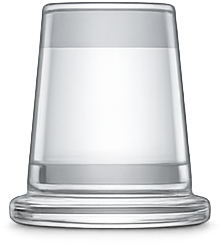
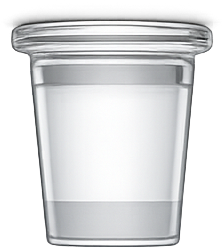
add an plug!!!

diff --git a/EzLaboratory/BottleStopperItem.cpp b/EzLaboratory/BottleStopperItem.cpp
@@ -1,0 +1,137 @@
+#include "BottleStopperItem.h"
+#include "NarrowBottleItem.h"
+
+#include <QGraphicsScene>
+#include <QGraphicsSceneMouseEvent>
+#include <QList>
+#include <QtMath>
+
+namespace
+{
+    // 这里先写成一个明确常量，后面你只要把路径替换成你 generic 里真实的瓶塞图片即可
+    constexpr const char* kStopperImagePath =
+        ":/EzLaboratory/resources/image/glassware/generic/narrow-mouth_bottle/plug.png";
+}
+
+BottleStopperItem::BottleStopperItem(QGraphicsItem* parent)
+    : LabItem(
+        "narrow_bottle_stopper",
+        "NarrowBottleStopper",
+        kStopperImagePath,
+        QSizeF(42, 56),
+        parent)
+{
+    setZValue(10.0);
+    setTransformOriginPoint(boundingRect().center());
+}
+
+void BottleStopperItem::attachToBottle(NarrowBottleItem* bottle)
+{
+    if (!bottle) {
+        return;
+    }
+
+    if (m_attachedBottle == bottle && parentItem() == bottle) {
+        return;
+    }
+
+    if (m_attachedBottle) {
+        m_attachedBottle->clearStopperReference(this);
+    }
+
+    m_attachedBottle = bottle;
+    m_attachedBottle->setStopperReference(this);
+
+    setParentItem(bottle);
+    setRotation(0.0);
+    setFlag(QGraphicsItem::ItemIsMovable, false);
+
+    const QPointF localPos = bottle->stopperLocalTopLeft(this);
+    setPos(localPos);
+}
+
+void BottleStopperItem::detachFromBottle()
+{
+    if (!scene()) {
+        return;
+    }
+
+    QPointF scenePosBefore = mapToScene(QPointF(0, 0));
+
+    if (m_attachedBottle) {
+        m_attachedBottle->clearStopperReference(this);
+        m_attachedBottle = nullptr;
+    }
+
+    setParentItem(nullptr);
+    setPos(scenePosBefore);
+    setRotation(180.0);
+    setFlag(QGraphicsItem::ItemIsMovable, true);
+    setZValue(100.0);
+}
+
+bool BottleStopperItem::isAttached() const
+{
+    return m_attachedBottle != nullptr;
+}
+
+NarrowBottleItem* BottleStopperItem::attachedBottle() const
+{
+    return m_attachedBottle;
+}
+
+QPointF BottleStopperItem::plugTipScenePos() const
+{
+    return mapToScene(QPointF(boundingRect().width() * 0.5, boundingRect().height()));
+}
+
+void BottleStopperItem::mousePressEvent(QGraphicsSceneMouseEvent* event)
+{
+    if (event->button() == Qt::LeftButton && isAttached()) {
+        detachFromBottle();
+    }
+
+    LabItem::mousePressEvent(event);
+}
+
+void BottleStopperItem::mouseReleaseEvent(QGraphicsSceneMouseEvent* event)
+{
+    LabItem::mouseReleaseEvent(event);
+
+    if (event->button() != Qt::LeftButton) {
+        return;
+    }
+
+    NarrowBottleItem* targetBottle = findBestSnapBottle();
+    if (targetBottle) {
+        attachToBottle(targetBottle);
+    }
+}
+
+NarrowBottleItem* BottleStopperItem::findBestSnapBottle() const
+{
+    if (!scene()) {
+        return nullptr;
+    }
+
+    const QPointF tipPos = plugTipScenePos();
+
+    NarrowBottleItem* bestBottle = nullptr;
+    qreal bestDistance = std::numeric_limits<qreal>::max();
+
+    const QList<QGraphicsItem*> allItems = scene()->items();
+    for (QGraphicsItem* item : allItems) {
+        auto* bottle = dynamic_cast<NarrowBottleItem*>(item);
+        if (!bottle) {
+            continue;
+        }
+
+        const qreal dist = QLineF(tipPos, bottle->mouthScenePos()).length();
+        if (dist <= bottle->snapRadius() && dist < bestDistance) {
+            bestDistance = dist;
+            bestBottle = bottle;
+        }
+    }
+
+    return bestBottle;
+}

diff --git a/EzLaboratory/NarrowBottleItem.cpp b/EzLaboratory/NarrowBottleItem.cpp
@@ -1,0 +1,69 @@
+#include "NarrowBottleItem.h"
+#include "BottleStopperItem.h"
+
+namespace
+{
+    // 这里也先写成固定资源路径，你本地把文件名对上即可
+    constexpr const char* kBottleBodyImagePath =
+        ":/EzLaboratory/resources/image/glassware/generic/narrow-mouth_bottle/bottle.png";
+}
+
+NarrowBottleItem::NarrowBottleItem(QGraphicsItem* parent)
+    : LabItem(
+        "narrow_bottle",
+        "NarrowBottle",
+        kBottleBodyImagePath,
+        QSizeF(96, 180),
+        parent)
+{
+    m_stopper = new BottleStopperItem(this);
+    m_stopper->attachToBottle(this);
+}
+
+NarrowBottleItem::~NarrowBottleItem()
+{
+}
+
+QPointF NarrowBottleItem::mouthLocalPos() const
+{
+    // 这里按当前 96x180 的瓶子图先给一个合理口部锚点
+    // 以后你只要看贴图微调这两个数值即可
+    return QPointF(48.0, 18.0);
+}
+
+QPointF NarrowBottleItem::mouthScenePos() const
+{
+    return mapToScene(mouthLocalPos());
+}
+
+QPointF NarrowBottleItem::stopperLocalTopLeft(const BottleStopperItem* stopper) const
+{
+    if (!stopper) {
+        return QPointF();
+    }
+
+    const QRectF stopperRect = stopper->boundingRect();
+    const QPointF mouth = mouthLocalPos();
+
+    return QPointF(
+        mouth.x() - stopperRect.width() * 0.5,
+        mouth.y() - stopperRect.height() + 8.0
+    );
+}
+
+qreal NarrowBottleItem::snapRadius() const
+{
+    return 36.0;
+}
+
+void NarrowBottleItem::setStopperReference(BottleStopperItem* stopper)
+{
+    m_stopper = stopper;
+}
+
+void NarrowBottleItem::clearStopperReference(BottleStopperItem* stopper)
+{
+    if (m_stopper == stopper) {
+        m_stopper = nullptr;
+    }
+}

diff --git a/EzLaboratory/EzLaboratory.cpp b/EzLaboratory/EzLaboratory.cpp
@@ -107,6 +107,16 @@ void EzLaboratory::initLabwareList()
     beakerItem->setData(3, LabwareRemainingRole);  // 这里限制最多 3 个
 
     m_labwareModel->appendRow(beakerItem);
+
+    auto* narrowBottleItem = new QStandardItem(
+        QIcon(":/EzLaboratory/resources/image/glassware/generic/narrow-mouth_bottle/bottle.png"),
+        "细口瓶");
+    narrowBottleItem->setEditable(false);
+    narrowBottleItem->setData("narrow_bottle", LabwareTypeRole);
+    narrowBottleItem->setData(3, LabwareLimitRole);
+    narrowBottleItem->setData(3, LabwareRemainingRole);
+
+    m_labwareModel->appendRow(narrowBottleItem);
 }
 void EzLaboratory::decreaseRemainingCount(const QString& type)
 {

diff --git a/EzLaboratory/BottleStopperItem.h b/EzLaboratory/BottleStopperItem.h
@@ -1,0 +1,30 @@
+#pragma once
+
+#include "LabItem.h"
+
+class NarrowBottleItem;
+
+class BottleStopperItem : public LabItem
+{
+    Q_OBJECT
+
+public:
+    explicit BottleStopperItem(QGraphicsItem* parent = nullptr);
+
+    void attachToBottle(NarrowBottleItem* bottle);
+    void detachFromBottle();
+
+    bool isAttached() const;
+    NarrowBottleItem* attachedBottle() const;
+
+    QPointF plugTipScenePos() const;
+
+protected:
+    void mousePressEvent(QGraphicsSceneMouseEvent* event) override;
+    void mouseReleaseEvent(QGraphicsSceneMouseEvent* event) override;
+
+private:
+    NarrowBottleItem* m_attachedBottle = nullptr;
+
+    NarrowBottleItem* findBestSnapBottle() const;
+};

diff --git a/EzLaboratory/NarrowBottleItem.h b/EzLaboratory/NarrowBottleItem.h
@@ -1,0 +1,26 @@
+#pragma once
+
+#include "LabItem.h"
+
+class BottleStopperItem;
+
+class NarrowBottleItem : public LabItem
+{
+    Q_OBJECT
+
+public:
+    explicit NarrowBottleItem(QGraphicsItem* parent = nullptr);
+    ~NarrowBottleItem() override;
+
+    QPointF mouthLocalPos() const;
+    QPointF mouthScenePos() const;
+
+    QPointF stopperLocalTopLeft(const BottleStopperItem* stopper) const;
+    qreal snapRadius() const;
+
+    void setStopperReference(BottleStopperItem* stopper);
+    void clearStopperReference(BottleStopperItem* stopper);
+
+private:
+    BottleStopperItem* m_stopper = nullptr;
+};

diff --git a/EzLaboratory/LabGraphicsView.cpp b/EzLaboratory/LabGraphicsView.cpp
@@ -1,5 +1,6 @@
 #include "LabGraphicsView.h"
 #include "BeakerItem.h"
+#include "NarrowBottleItem.h"
 
 #include <QMimeData>
 #include <QGraphicsScene>
@@ -120,6 +121,9 @@ void LabGraphicsView::dropEvent(QDropEvent* event)
 
     if (type == "beaker") {
         newItem = new BeakerItem();
+    }
+    else if (type == "narrow_bottle") {
+        newItem = new NarrowBottleItem();
     }
 
     if (!newItem) {
